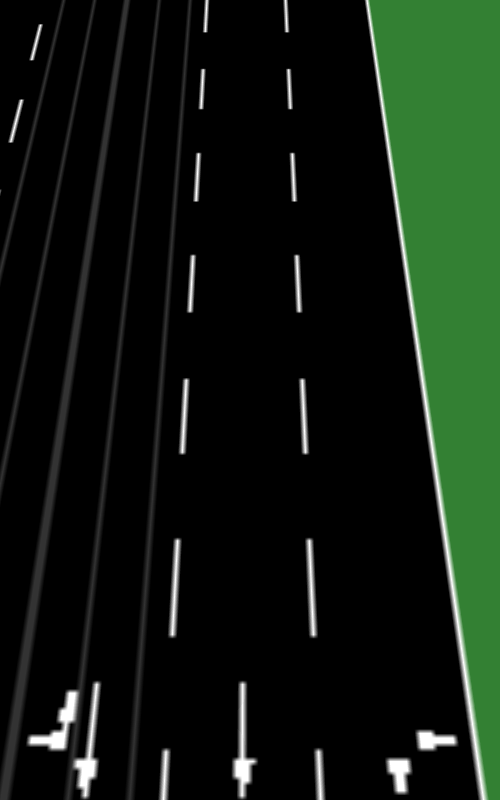
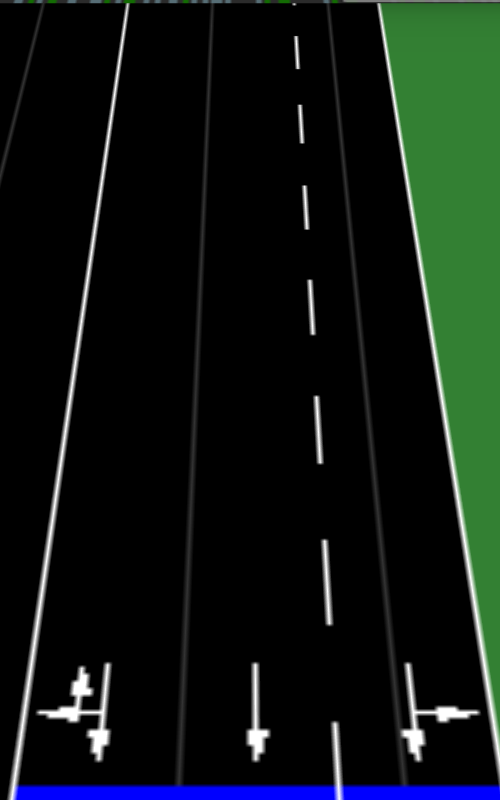
Fixed cross read

diff --git a/Traffic Modeling Real Vision  Based/cross_read.py b/Traffic Modeling Real Vision  Based/cross_read.py
@@ -5,7 +5,7 @@ from PIL import Image
 
 #mon = {'top': 140, 'left': 50, 'width':1800, 'height': 900}
 
-mon_right = {'top': 140, 'left':933, 'width': 884, 'height': 900}
+mon_right = {'top': 119, 'left':933, 'width': 884, 'height': 900}
 mon_left = {'top': 140, 'left': 100, 'width': 884, 'height': 900}
 
 sct = mss()
@@ -176,9 +176,9 @@ def getCenter(image):
 def leftgetUpperQlength():
     image = LeftgetScreenImage()
     #cv2.imshow("test",image)
-    upper_lane = np.array([(426, 39), (515, 39), (515, 351), (426, 351)], dtype="float32")
+    upper_lane = np.array([(446, 19), (535, 19), (535, 331), (446, 331)], dtype="float32")
     warp_upperlane = warped_simulation(upper_lane, image)
-    #cv2.imshow("test",warp_upperlane)
+    #cv2.imshow("testupper",warp_upperlane)
     mask_upper = leftsubtractImage(warp_upperlane, "upper")
     tail_length_upper = tail_length(mask_upper)
 
@@ -190,9 +190,9 @@ def leftgetLowerQlength():#
     h, w, center = getCenter(image)
     M180 = cv2.getRotationMatrix2D(center, 180, 1.0)
     rotated180 = cv2.warpAffine(image, M180, (w, h))
-    lower_lane = np.array([(456, 28), (544, 28), (544, 346), (456, 346)], dtype="float32")
+    lower_lane = np.array([(440, 33), (528, 33), (528, 351), (440, 351)], dtype="float32")
     warp_lowerlane = warped_simulation(lower_lane, rotated180)
-    #cv2.imshow("lotest",warp_lowerlane)
+    #cv2.imshow("llowertest",warp_lowerlane)
     mask_lower = leftsubtractImage(warp_lowerlane, "lower")
     tail_length_lower = tail_length(mask_lower)
 
@@ -204,7 +204,7 @@ def leftgetRightQlength():
     h, w, center = getCenter(image)
     M90 = cv2.getRotationMatrix2D(center, 90, 1.0)
     rotated90 = cv2.warpAffine(image, M90, (w, h))
-    right_lane = np.array([(446, 36), (534, 36), (534, 363), (446, 363)], dtype="float32")
+    right_lane = np.array([(429, 30), (523, 30), (523, 343), (429, 343)], dtype="float32")
     warp_rightlane = warped_simulation(right_lane, rotated90)
     #cv2.imshow("lrtest",warp_rightlane)
     mask_right = leftsubtractImage(warp_rightlane, "right")
@@ -218,7 +218,7 @@ def leftgetLeftQlength():
     h, w, center = getCenter(image)
     M270 = cv2.getRotationMatrix2D(center, 270, 1.0)
     rotated270 = cv2.warpAffine(image, M270, (w, h))
-    left_lane = np.array([(434, 34), (523, 34), (523, 334), (434, 334)], dtype="float32")
+    left_lane = np.array([(454, 42), (543, 42), (543, 342), (454, 342)], dtype="float32")
     warp_leftlane = warped_simulation(left_lane, rotated270)
     #cv2.imshow("lltest",warp_leftlane)
     mask_left = leftsubtractImage(warp_leftlane, "left")
@@ -234,7 +234,7 @@ def leftgetLeftQlength():
 def rightgetUpperQlength():
     image = RightgetScreenImage()
     #cv2.imshow("test",image)
-    upper_lane = np.array([(455, 31), (544, 31), (544, 351), (455, 351)], dtype="float32")
+    upper_lane = np.array([(500, 31), (599, 31), (599, 351), (500, 351)], dtype="float32")
     #cv2.imshow("upper",upper_lane)
     warp_upperlane = warped_simulation(upper_lane, image)
     #cv2.imshow("upper",warp_upperlane)
@@ -250,7 +250,7 @@ def rightgetLowerQlength():
     h, w, center = getCenter(image)
     M180 = cv2.getRotationMatrix2D(center, 180, 1.0)
     rotated180 = cv2.warpAffine(image, M180, (w, h))
-    lower_lane = np.array([(426, 31), (516, 31), (516, 340), (426, 340)], dtype="float32")
+    lower_lane = np.array([(378, 31), (466, 31), (466, 340), (378, 340)], dtype="float32")
     #cv2.imshow("lower", lower_lane)
     warp_lowerlane = warped_simulation(lower_lane, rotated180)
     #cv2.imshow("lower", warp_lowerlane)
@@ -266,7 +266,7 @@ def rightgetRightQlength():
     h, w, center = getCenter(image)
     M90 = cv2.getRotationMatrix2D(center, 90, 1.0)
     rotated90 = cv2.warpAffine(image, M90, (w, h))
-    right_lane = np.array([(445, 36), (533, 36), (533, 330), (445, 330)], dtype="float32")
+    right_lane = np.array([(450, 0), (540, 0), (540, 281), (450, 281)], dtype="float32")
     #cv2.imshow("right", right_lane)
     warp_rightlane = warped_simulation(right_lane, rotated90)
     #cv2.imshow("right", warp_rightlane)
@@ -282,7 +282,7 @@ def rightgetLeftQlength():
     h, w, center = getCenter(image)
     M270 = cv2.getRotationMatrix2D(center, 270, 1.0)
     rotated270 = cv2.warpAffine(image, M270, (w, h))
-    left_lane = np.array([(436, 38), (525, 38), (525, 358), (436, 358)], dtype="float32")
+    left_lane = np.array([(431, 38), (520, 38), (520, 412), (430, 412)], dtype="float32")
     #cv2.imshow("left", left_lane)
     warp_leftlane = warped_simulation(left_lane, rotated270)
     #cv2.imshow("left", warp_leftlane)
@@ -329,9 +329,9 @@ if __name__ == '__main__':
         print("lower Tail ", tail_length_lower)
         print("right Tail ", tail_length_right)
         print("left Tail ", tail_length_left)
+
         #
-        # #
-        # print("  end")
+        print("  end")
 
         # cv2.imshow('test', image)
         # cv2.imshow("180",rotated180)
